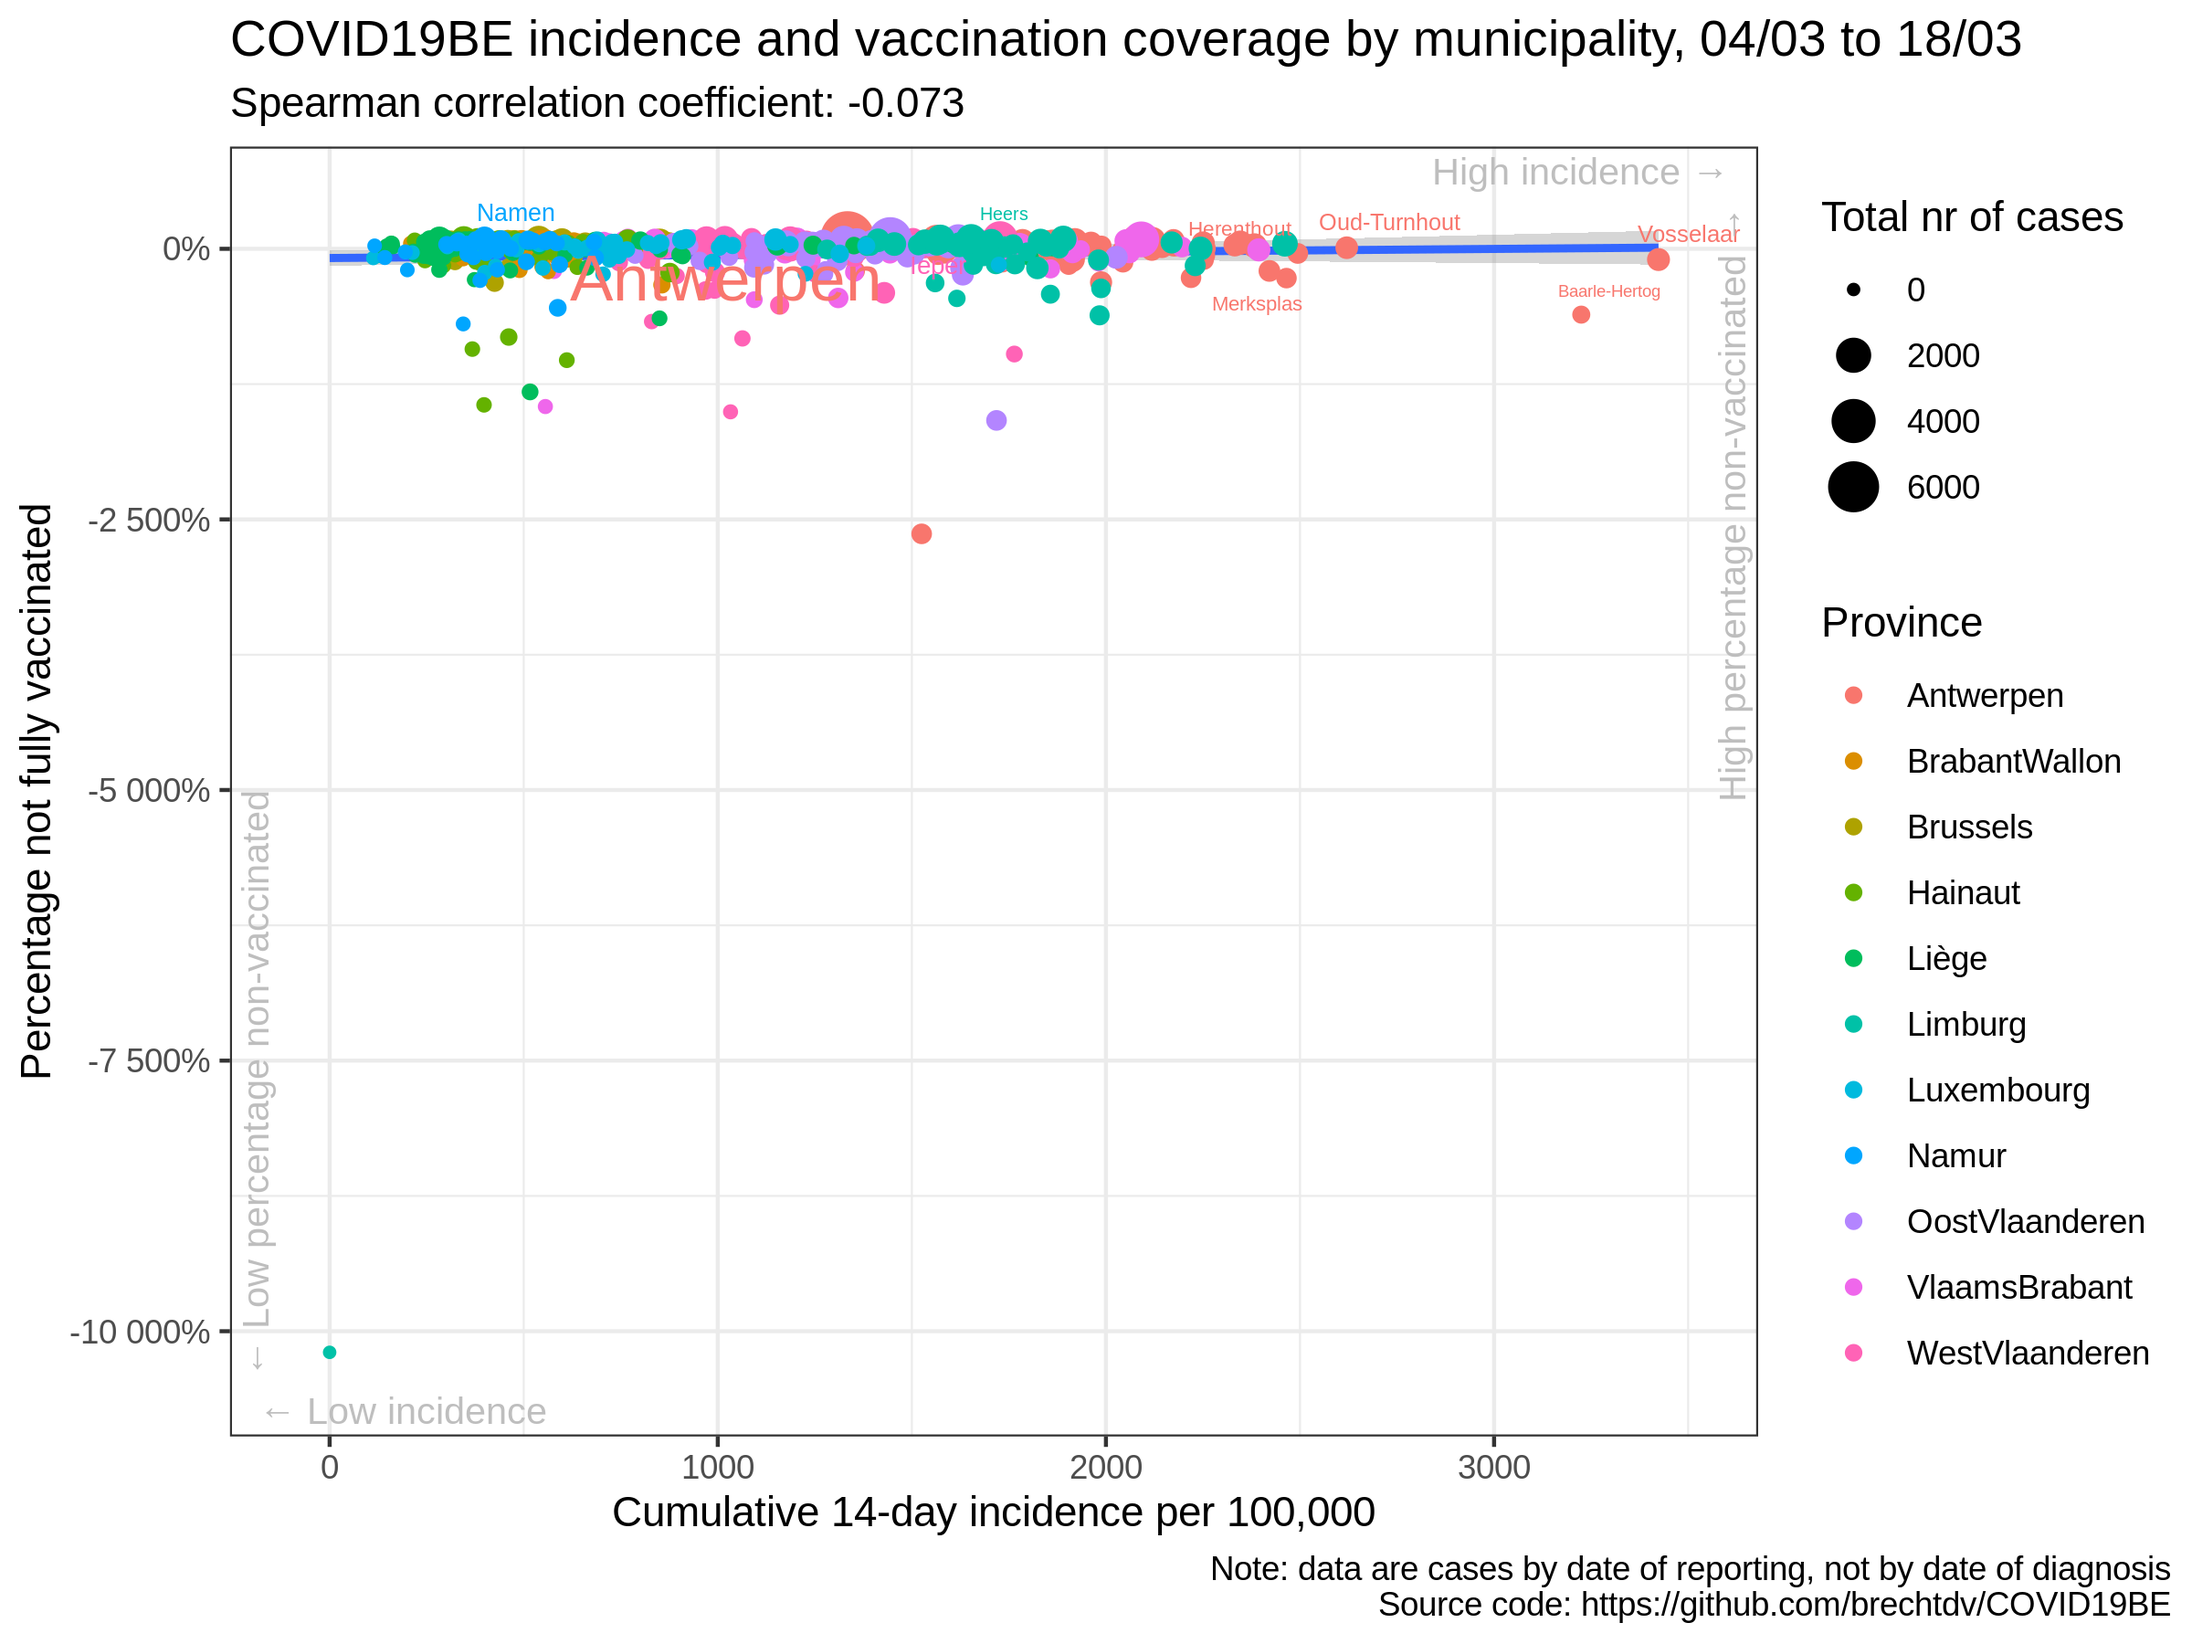
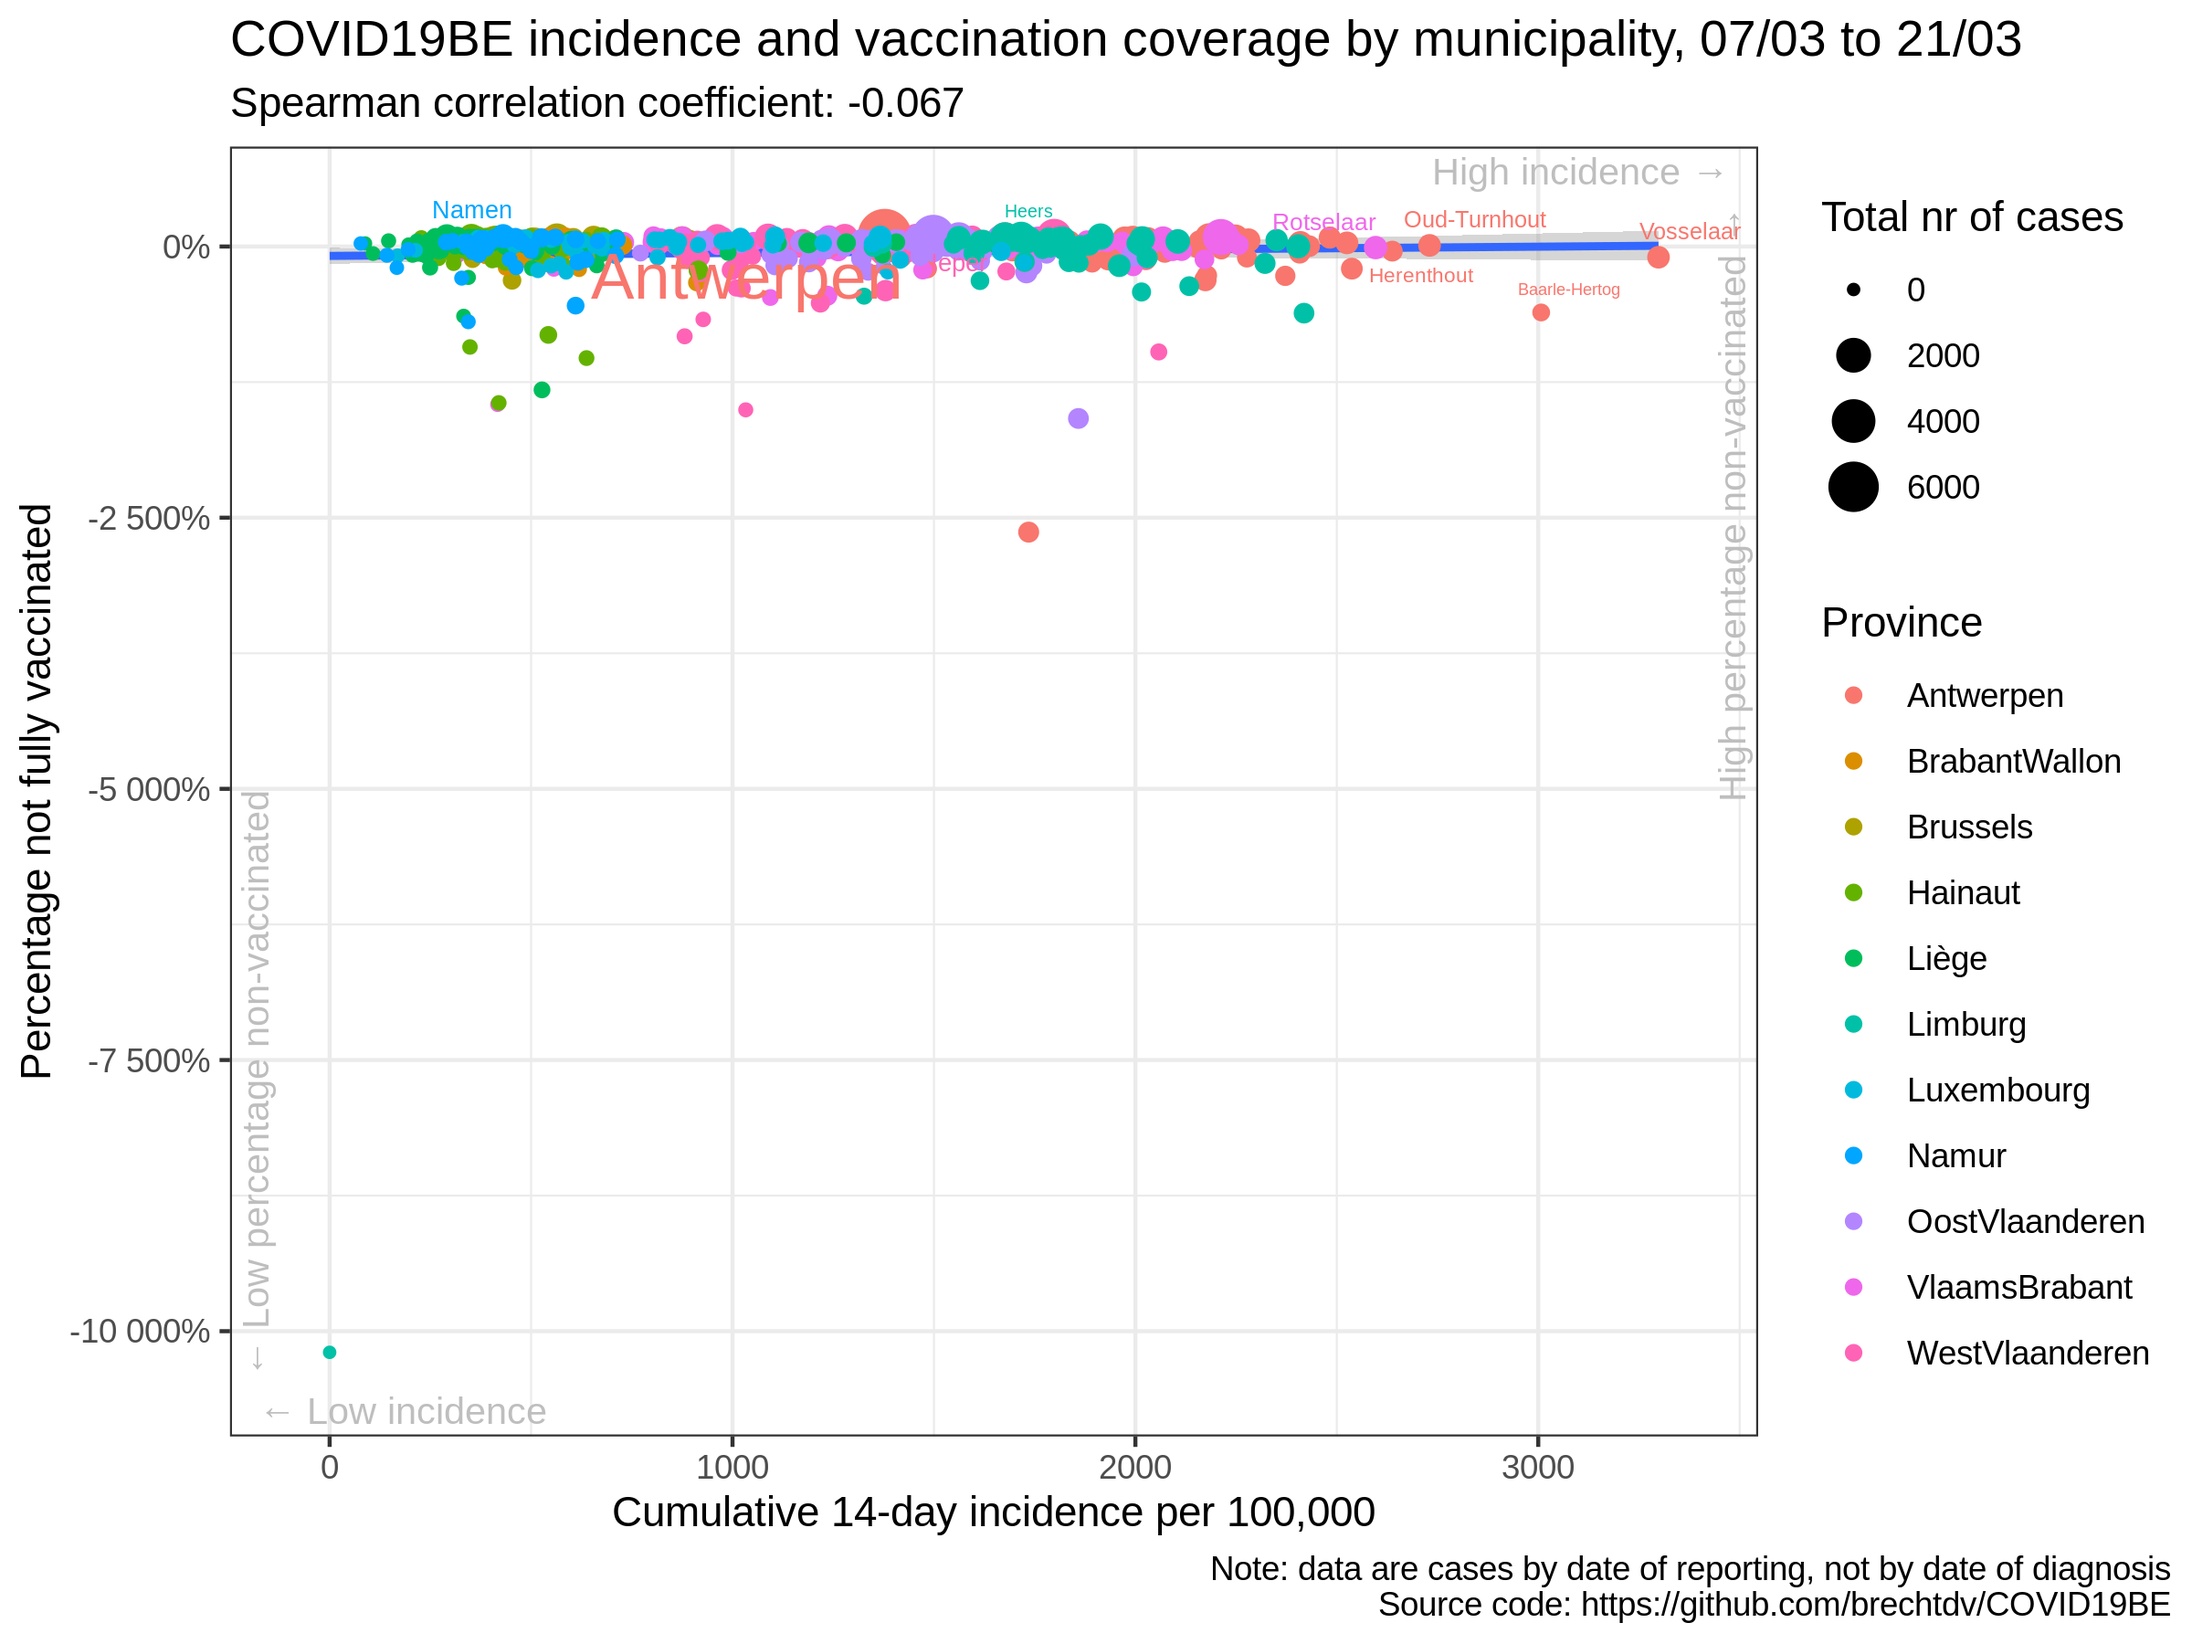
update situation

diff --git a/vaccination/README.md b/vaccination/README.md
@@ -17,35 +17,35 @@
 
 |                | estimate.rho | p.value |
 | :------------- | -----------: | ------: |
-| Antwerpen      |      \-0.116 |   0.341 |
-| BrabantWallon  |      \-0.058 |   0.773 |
-| Brussels       |        0.063 |   0.798 |
-| Hainaut        |      \-0.033 |   0.785 |
-| Liège          |      \-0.043 |   0.696 |
-| Limburg        |      \-0.174 |   0.269 |
-| Luxembourg     |        0.007 |   0.964 |
-| Namur          |        0.119 |   0.481 |
-| OostVlaanderen |      \-0.027 |   0.835 |
-| VlaamsBrabant  |      \-0.002 |   0.985 |
-| WestVlaanderen |        0.223 |   0.077 |
-| Belgium        |      \-0.073 |   0.078 |
+| Antwerpen      |      \-0.097 |   0.427 |
+| BrabantWallon  |      \-0.034 |   0.866 |
+| Brussels       |        0.058 |   0.815 |
+| Hainaut        |      \-0.041 |   0.738 |
+| Liège          |        0.017 |   0.875 |
+| Limburg        |      \-0.124 |   0.432 |
+| Luxembourg     |        0.045 |   0.770 |
+| Namur          |        0.160 |   0.343 |
+| OostVlaanderen |      \-0.025 |   0.852 |
+| VlaamsBrabant  |        0.006 |   0.962 |
+| WestVlaanderen |        0.209 |   0.097 |
+| Belgium        |      \-0.067 |   0.107 |
 
 ### Correlation cumulative incidence vs booster rate
 
 |                | estimate.rho | p.value |
 | :------------- | -----------: | ------: |
-| Antwerpen      |      \-0.122 |   0.319 |
-| BrabantWallon  |      \-0.053 |   0.795 |
-| Brussels       |        0.035 |   0.888 |
-| Hainaut        |      \-0.038 |   0.758 |
-| Liège          |      \-0.035 |   0.754 |
-| Limburg        |      \-0.179 |   0.256 |
-| Luxembourg     |        0.011 |   0.945 |
-| Namur          |        0.126 |   0.455 |
-| OostVlaanderen |      \-0.021 |   0.873 |
-| VlaamsBrabant  |      \-0.031 |   0.805 |
-| WestVlaanderen |        0.224 |   0.075 |
-| Belgium        |      \-0.131 |   0.002 |
+| Antwerpen      |      \-0.103 |   0.401 |
+| BrabantWallon  |      \-0.033 |   0.871 |
+| Brussels       |        0.028 |   0.911 |
+| Hainaut        |      \-0.040 |   0.743 |
+| Liège          |        0.025 |   0.821 |
+| Limburg        |      \-0.131 |   0.409 |
+| Luxembourg     |        0.041 |   0.790 |
+| Namur          |        0.165 |   0.328 |
+| OostVlaanderen |      \-0.018 |   0.894 |
+| VlaamsBrabant  |      \-0.019 |   0.881 |
+| WestVlaanderen |        0.211 |   0.094 |
+| Belgium        |      \-0.125 |   0.003 |
 
 ### Data source
 
